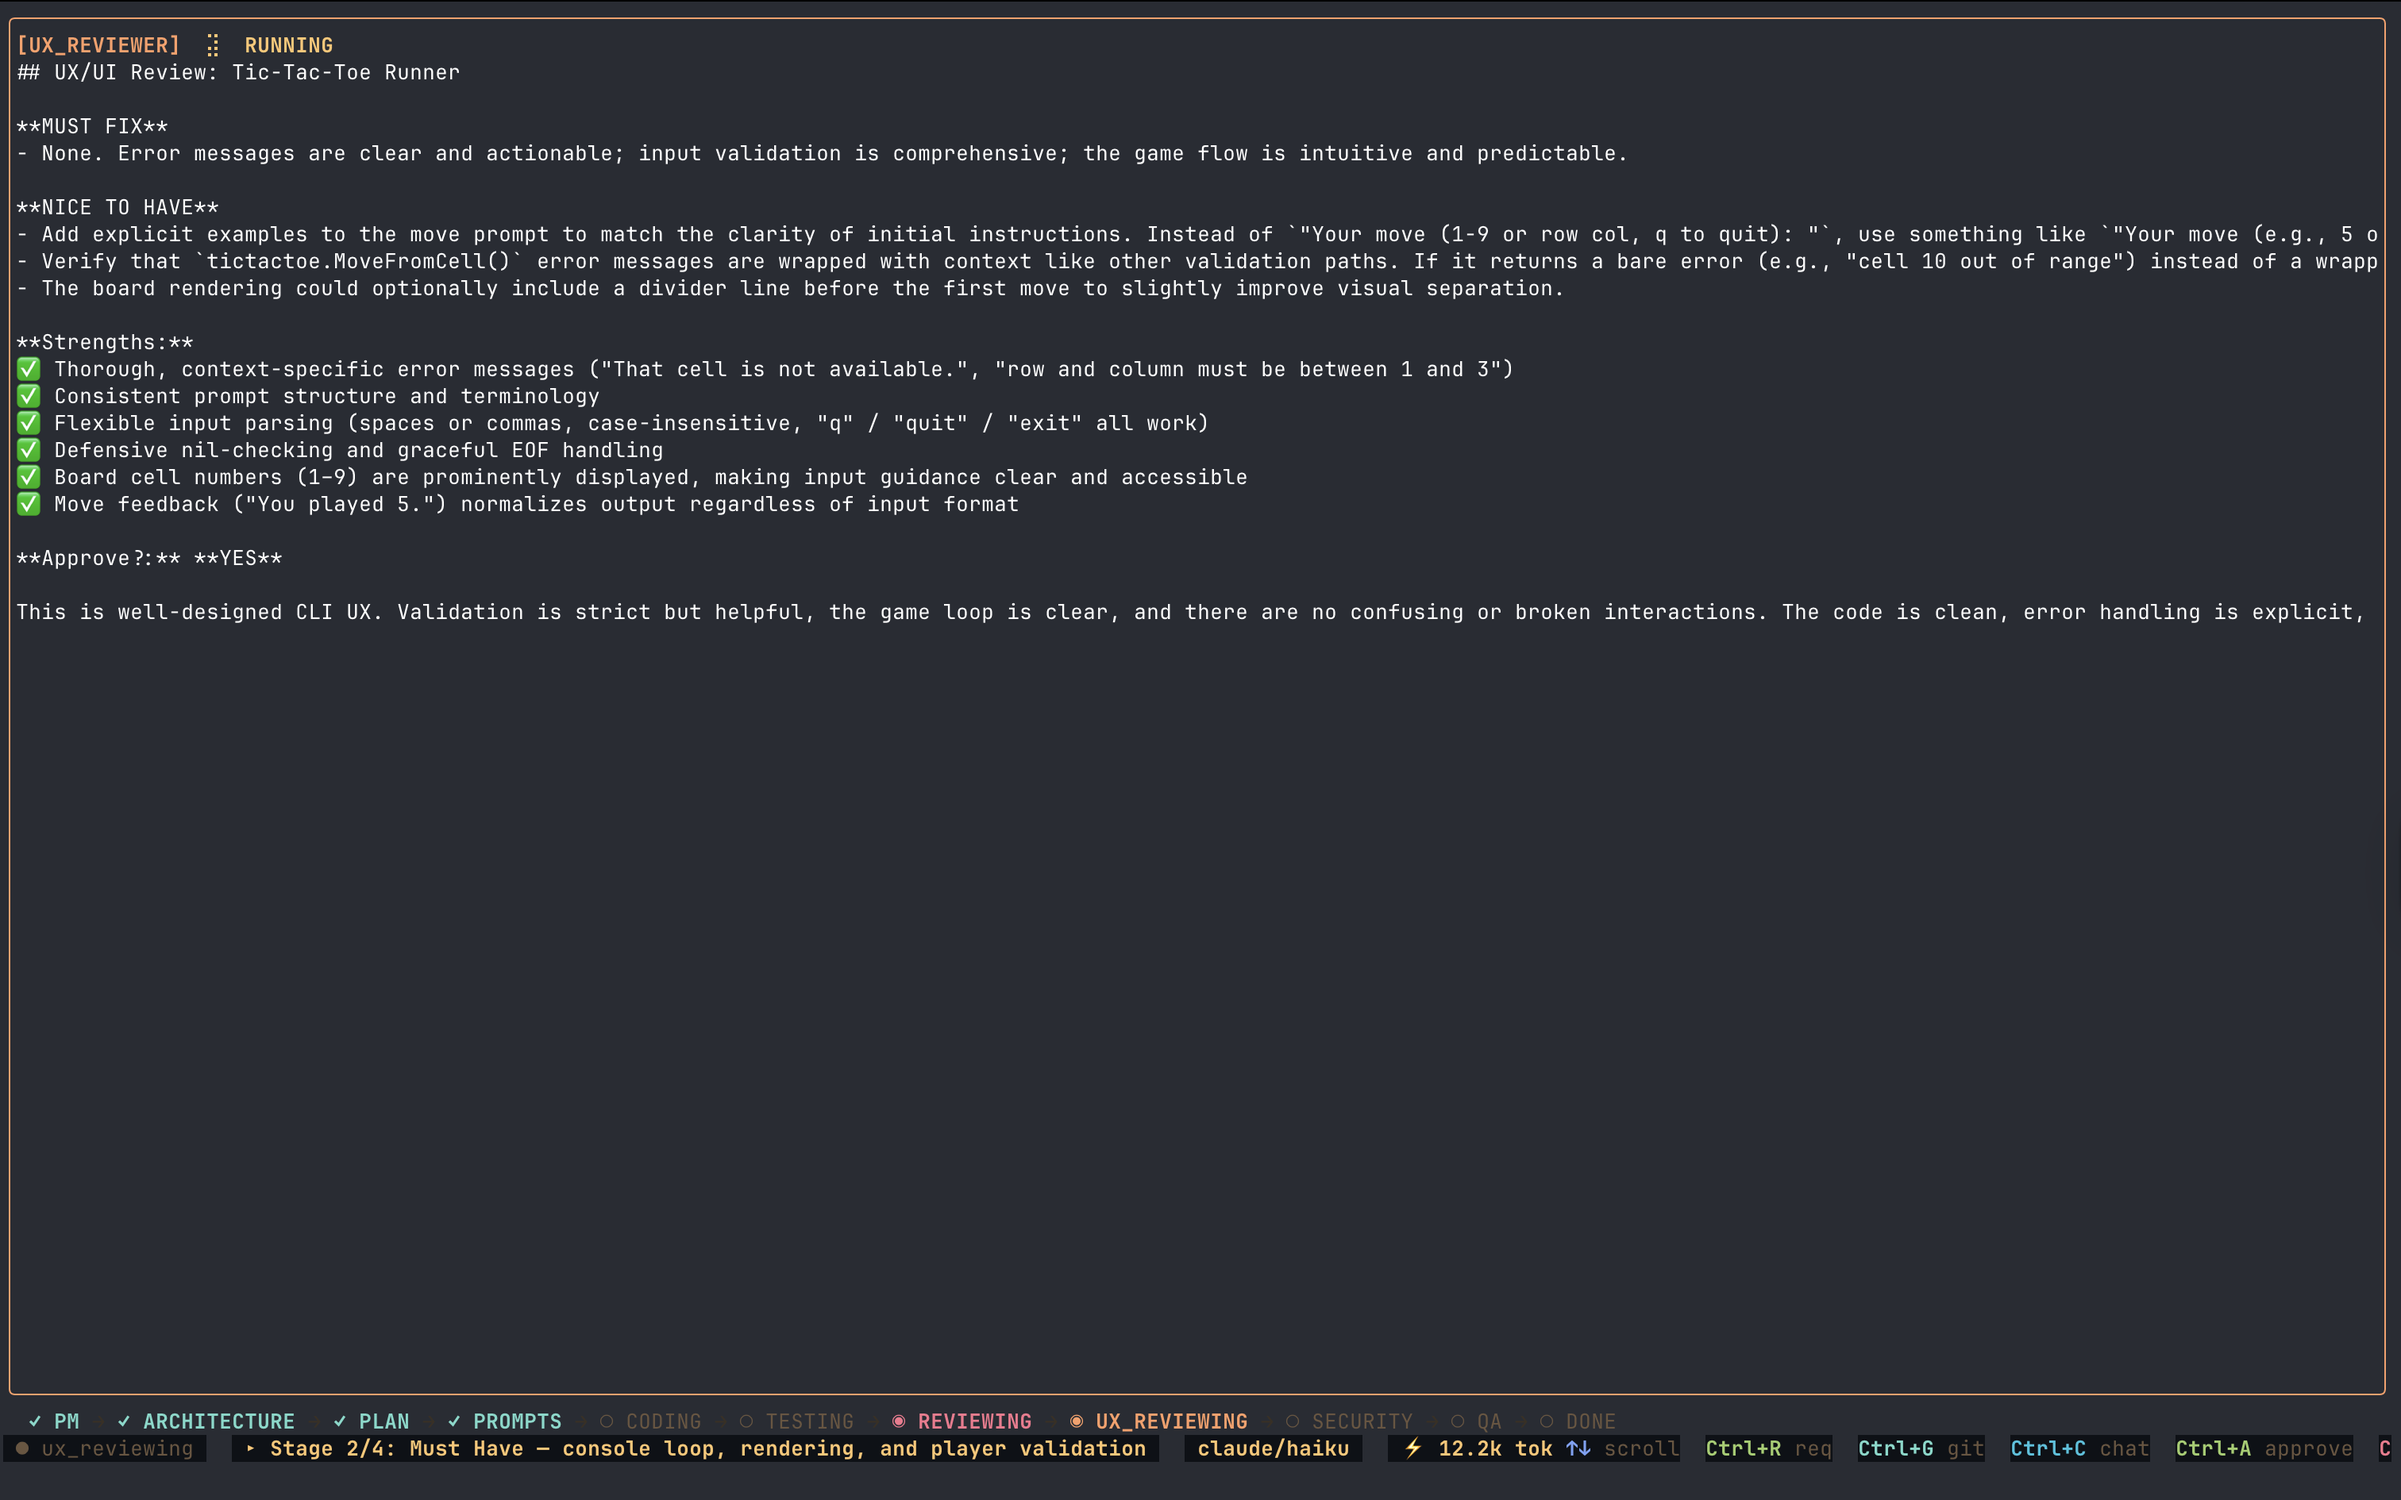
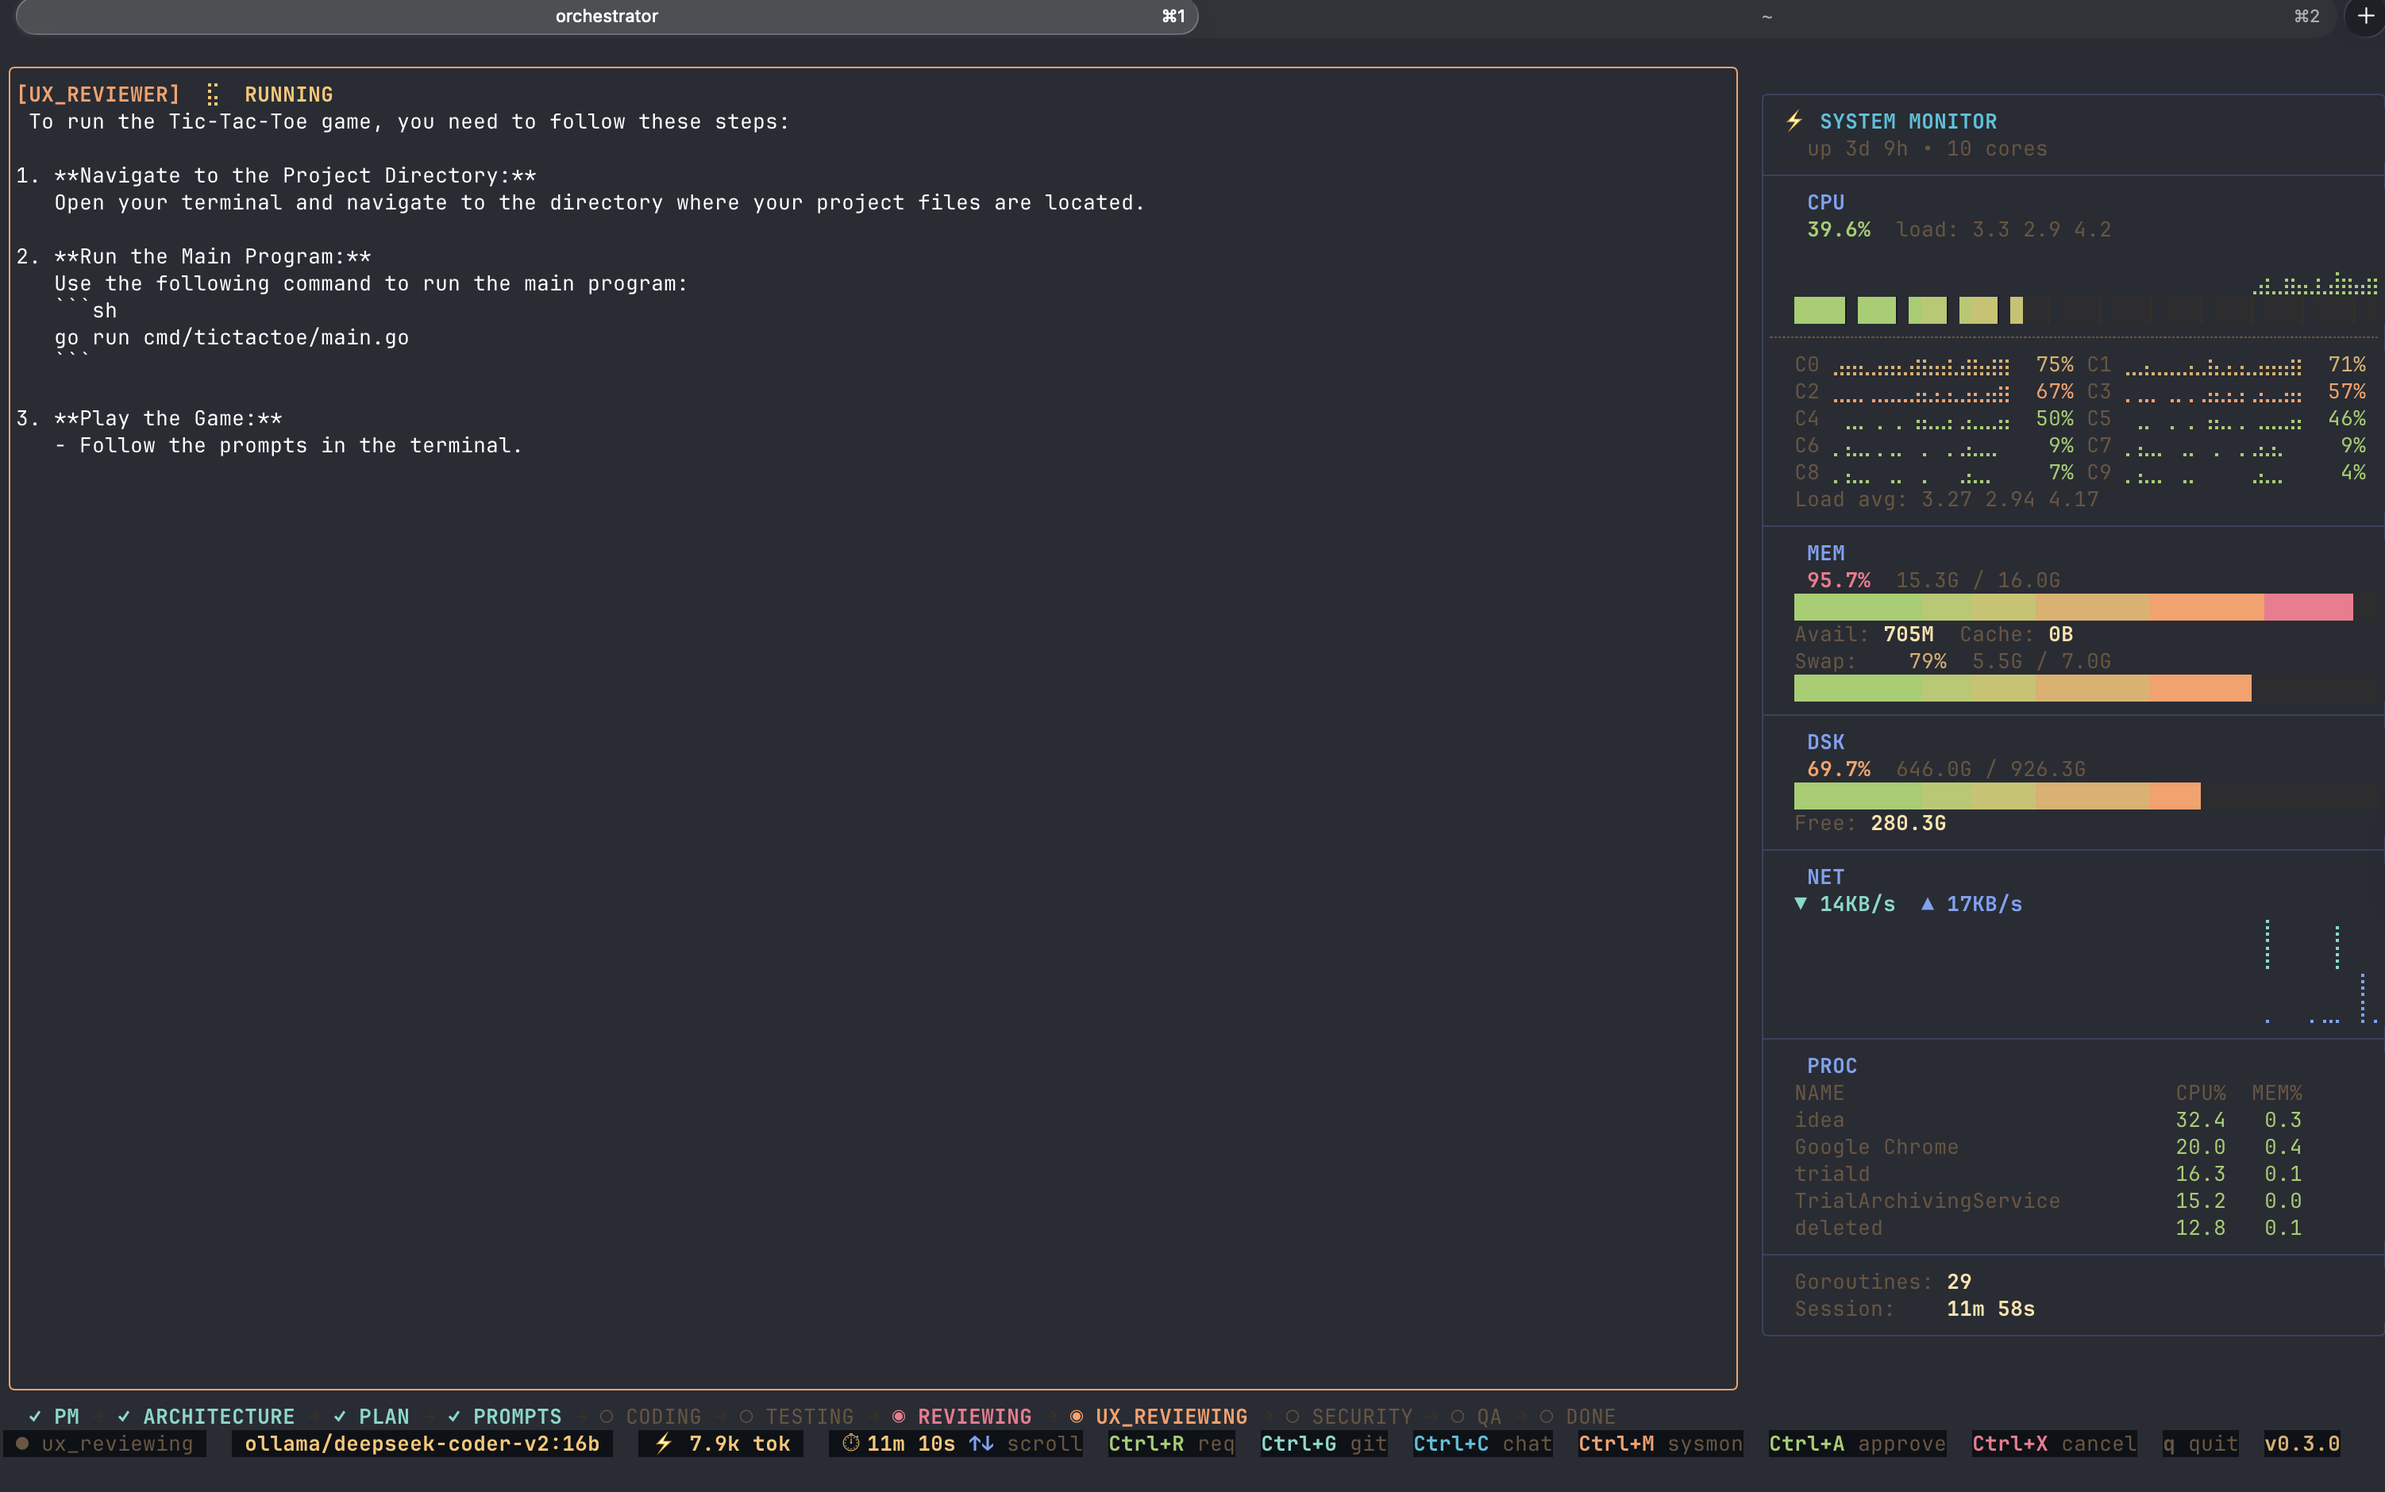
refactor: enhance pipeline summary rendering with improved styling and context-aware formatting

diff --git a/internal/tui/model.go b/internal/tui/model.go
@@ -754,11 +754,22 @@ func (m Model) renderPhaseBar() string {
 
 // renderCongratulations renders a centered congratulations banner with pipeline summary.
 func (m Model) renderCongratulations(height int) string {
+	successColor := lipgloss.Color("#73daca")
 	titleStyle := lipgloss.NewStyle().
-		Foreground(lipgloss.Color("#73daca")).
+		Foreground(successColor).
 		Bold(true)
 	dimStyle := lipgloss.NewStyle().Foreground(crt.dim)
 	accentStyle := lipgloss.NewStyle().Foreground(crt.primary)
+	headerStyle := lipgloss.NewStyle().Foreground(crt.bright).Bold(true)
+	passedStyle := lipgloss.NewStyle().Foreground(successColor)
+	skippedStyle := lipgloss.NewStyle().Foreground(crt.dim).Italic(true)
+	warnStyle := lipgloss.NewStyle().Foreground(crt.warn)
+	sectionStyle := lipgloss.NewStyle().Foreground(crt.primary).Bold(true)
+	bulletStyle := lipgloss.NewStyle().Foreground(crt.dim)
+	labelStyle := lipgloss.NewStyle().Foreground(crt.dim)
+	valueStyle := lipgloss.NewStyle().Foreground(crt.bright)
+	totalStyle := lipgloss.NewStyle().Foreground(crt.primary).Bold(true)
+	separatorStyle := lipgloss.NewStyle().Foreground(crt.border)
 
 	var content strings.Builder
 	content.WriteString(titleStyle.Render("🎉  Congratulations!"))
@@ -773,8 +784,18 @@ func (m Model) renderCongratulations(height int) string {
 		summary := strings.TrimSpace(string(data))
 		if summary != "" {
 			content.WriteString("\n")
-			content.WriteString(dimStyle.Render(summary))
-			content.WriteString("\n")
+			for _, line := range strings.Split(summary, "\n") {
+				trimmed := strings.TrimSpace(line)
+				styled := m.styleSummaryLine(
+					line, trimmed,
+					headerStyle, separatorStyle, passedStyle,
+					skippedStyle, warnStyle, sectionStyle,
+					bulletStyle, labelStyle, valueStyle,
+					totalStyle, dimStyle,
+				)
+				content.WriteString(styled)
+				content.WriteString("\n")
+			}
 		}
 	}
 
@@ -787,11 +808,79 @@ func (m Model) renderCongratulations(height int) string {
 
 	box := lipgloss.NewStyle().
 		Border(lipgloss.RoundedBorder()).
-		BorderForeground(lipgloss.Color("#73daca")).
+		BorderForeground(successColor).
 		Padding(1, 4).
 		Render(content.String())
 
 	return lipgloss.Place(m.width, height, lipgloss.Center, lipgloss.Center, box)
+}
+
+// styleSummaryLine applies context-aware styling to a single summary line.
+func (m Model) styleSummaryLine(
+	line, trimmed string,
+	headerStyle, separatorStyle, passedStyle,
+	skippedStyle, warnStyle, sectionStyle,
+	bulletStyle, labelStyle, valueStyle,
+	totalStyle, dimStyle lipgloss.Style,
+) string {
+	switch {
+	case strings.HasPrefix(trimmed, "════"):
+		return separatorStyle.Render(line)
+	case strings.HasPrefix(trimmed, "PIPELINE COMPLETE"):
+		return headerStyle.Render(line)
+	case strings.HasPrefix(trimmed, "✓"):
+		return passedStyle.Render(line)
+	case strings.HasPrefix(trimmed, "○"):
+		return skippedStyle.Render(line)
+	case strings.HasPrefix(trimmed, "?"):
+		return warnStyle.Render(line)
+	case strings.HasPrefix(trimmed, "📋"):
+		return sectionStyle.Render(line)
+	case strings.HasSuffix(trimmed, ":") && !strings.HasPrefix(trimmed, "•"):
+		return sectionStyle.Render(line)
+	case strings.HasPrefix(trimmed, "•"):
+		return bulletStyle.Render(line)
+	case strings.HasPrefix(trimmed, "TOTAL") || strings.HasPrefix(trimmed, "WALL CLOCK"):
+		return m.styleDurationLine(line, totalStyle, totalStyle)
+	case m.isDurationLine(trimmed):
+		return m.styleDurationLine(line, labelStyle, valueStyle)
+	case trimmed == "":
+		return ""
+	default:
+		return dimStyle.Render(line)
+	}
+}
+
+// isDurationLine checks if a line looks like an agent duration entry (e.g. "    pm           27s").
+func (m Model) isDurationLine(trimmed string) bool {
+	fields := strings.Fields(trimmed)
+	if len(fields) < 2 {
+		return false
+	}
+	last := fields[len(fields)-1]
+	return strings.HasSuffix(last, "s") || strings.HasSuffix(last, "m") || strings.Contains(last, "m ")
+}
+
+// styleDurationLine styles a duration line with separate label and value colors.
+func (m Model) styleDurationLine(line string, lStyle, vStyle lipgloss.Style) string {
+	fields := strings.Fields(line)
+	if len(fields) < 2 {
+		return lStyle.Render(line)
+	}
+	// Find where the value starts — last field(s) that look like a duration.
+	label := fields[0]
+	value := strings.Join(fields[1:], " ")
+
+	// Preserve original indentation.
+	indent := ""
+	for _, ch := range line {
+		if ch == ' ' {
+			indent += " "
+		} else {
+			break
+		}
+	}
+	return indent + lStyle.Render(fmt.Sprintf("%-12s", label)) + " " + vStyle.Render(value)
 }
 
 // withSysmon composites the sysmon panel to the right of the given view

diff --git a/README.md b/README.md
@@ -77,6 +77,10 @@ Full-featured terminal user interface with agent panels, live token streaming, a
   <img src="doc/images/ux-reviewer.png" width="700" alt="UX Reviewer Agent">
 </p>
 
+<p align="center">
+  <img src="doc/images/summary.png" width="700" alt="Pipeline Summary">
+</p>
+
 ### Configurable LLM Backends
 
 Supports multiple runners out of the box:
